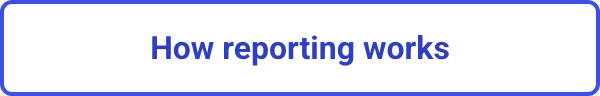
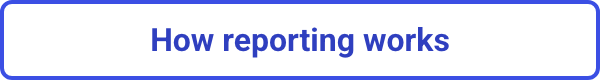
CYB4-2596: tighten Chip block, buttons and footer to fit the panel
Chip block: 15px text, tighter line height, padding and gaps. Buttons 44
and 40px tall, footer box 40px. English and Arabic now fit a 770px Gmail
panel without scrolling.

diff --git a/scripts/render-home-images.js b/scripts/render-home-images.js
@@ -61,35 +61,37 @@ p, h2, h3 { margin: 0; }
 </style></head><body><div id="root" dir="${RTL.has(lang) ? "rtl" : "ltr"}">${body}</div></body></html>`;
 }
 
-// The mock's Chip block: mock text sizes and spacing, with a smaller squirrel
-// (48x51, mock 76x80) and heading (20px, mock 26px), as asked in review.
+// The mock's Chip block, tightened so the whole home card fits a normal
+// Gmail panel without scrolling: smaller squirrel (48x51, mock 76x80) and
+// heading (20px, mock 26px), 15px text with tighter line height and gaps.
 function chipIntro(m) {
-  return `<div style="box-sizing:border-box;padding:16px;border-radius:10px;background:#F1F3FF;display:flex;flex-direction:column;gap:12px">
+  return `<div style="box-sizing:border-box;padding:12px 14px;border-radius:10px;background:#F1F3FF;display:flex;flex-direction:column;gap:8px">
   <div style="display:flex;align-items:center;gap:12px">
     <img src="${CHIP}" alt="" style="width:48px;height:51px;flex:none;object-fit:contain">
     <h2 style="font-size:20px;line-height:26px;font-weight:700">${esc(m.chipGreeting)}</h2>
   </div>
-  <p style="font-size:16px;line-height:24px">${esc(m.chipIntro)}</p>
-  <div style="display:flex;flex-direction:column;gap:4px">
-    <h3 style="font-size:16px;line-height:22px;font-weight:700">${esc(m.keyPartHeading)}</h3>
-    <p style="font-size:15px;line-height:22px">${esc(m.keyPartBody)}</p>
+  <p style="font-size:15px;line-height:21px">${esc(m.chipIntro)}</p>
+  <div style="display:flex;flex-direction:column;gap:2px">
+    <h3 style="font-size:15px;line-height:20px;font-weight:700">${esc(m.keyPartHeading)}</h3>
+    <p style="font-size:15px;line-height:20px">${esc(m.keyPartBody)}</p>
   </div>
-  <p style="font-size:15px;line-height:22px">${esc(m.spotOne)}</p>
+  <p style="font-size:15px;line-height:20px">${esc(m.spotOne)}</p>
 </div>`;
 }
 
+// Buttons: the mock's look, a little shorter (44 and 40px, mock 52 and 48).
 const reportButton = (m) =>
-  `<div style="box-sizing:border-box;width:100%;height:52px;border-radius:6px;background:#C9402F;color:#FFFFFF;font-size:17px;font-weight:700;display:flex;align-items:center;justify-content:center;padding:0 12px;text-align:center">${esc(m.reportButton)}</div>`;
+  `<div style="box-sizing:border-box;width:100%;height:44px;border-radius:6px;background:#C9402F;color:#FFFFFF;font-size:17px;font-weight:700;display:flex;align-items:center;justify-content:center;padding:0 12px;text-align:center">${esc(m.reportButton)}</div>`;
 const howButton = (m) =>
-  `<div style="box-sizing:border-box;width:100%;height:48px;border:2px solid #3B4FE4;border-radius:6px;background:#FFFFFF;color:#2F3FBF;font-size:16px;font-weight:700;display:flex;align-items:center;justify-content:center;padding:0 12px;text-align:center">${esc(m.howReportingWorks)}</div>`;
+  `<div style="box-sizing:border-box;width:100%;height:40px;border:2px solid #3B4FE4;border-radius:6px;background:#FFFFFF;color:#2F3FBF;font-size:16px;font-weight:700;display:flex;align-items:center;justify-content:center;padding:0 12px;text-align:center">${esc(m.howReportingWorks)}</div>`;
 
-// Footer row from the mock: 13px muted version, 180x44 language box.
+// Footer row from the mock: 13px muted version, 180x40 language box (mock 44).
 const footer = (lang, arrow) => () =>
-  `<div style="height:44px;display:flex;align-items:center;justify-content:space-between;gap:12px">
+  `<div style="height:40px;display:flex;align-items:center;justify-content:space-between;gap:12px">
   <span style="font-size:13px;color:#4A4F66">${esc(VERSION)}</span>
-  <div style="position:relative;box-sizing:border-box;width:180px;height:44px;border:1px solid #8A8FA3;border-radius:6px;background:#FFFFFF;display:flex;align-items:center;padding-inline:12px 34px;font-size:14px;color:#1B1F3B;white-space:nowrap;overflow:hidden">
+  <div style="position:relative;box-sizing:border-box;width:180px;height:40px;border:1px solid #8A8FA3;border-radius:6px;background:#FFFFFF;display:flex;align-items:center;padding-inline:12px 34px;font-size:14px;color:#1B1F3B;white-space:nowrap;overflow:hidden">
     ${esc(optionLabel(lang))}
-    ${arrow ? `<svg width="12" height="8" viewBox="0 0 12 8" style="position:absolute;inset-inline-end:12px;top:18px"><path d="M1 1.5 L6 6.5 L11 1.5" stroke="#1B1F3B" stroke-width="2" fill="none" stroke-linecap="round" stroke-linejoin="round"/></svg>` : ""}
+    ${arrow ? `<svg width="12" height="8" viewBox="0 0 12 8" style="position:absolute;inset-inline-end:12px;top:16px"><path d="M1 1.5 L6 6.5 L11 1.5" stroke="#1B1F3B" stroke-width="2" fill="none" stroke-linecap="round" stroke-linejoin="round"/></svg>` : ""}
   </div>
 </div>`;
 

diff --git a/README.md b/README.md
@@ -114,8 +114,10 @@ The home card (`buildHomeCard()` in `code.gs`) follows the "Chip Reporting
 Panel" mock attached to CYB4-2596, top to bottom:
 
 1. Chip block: squirrel image + "Hi, I'm Chip.", then the program copy
-   (`home.*` keys in `i18n.gs`). Rendered with the mock's text sizes (15-16px)
-   and spacing, and a smaller squirrel (48x51) and heading (20px).
+   (`home.*` keys in `i18n.gs`). Rendered from the mock with a smaller
+   squirrel (48x51) and heading (20px), 15px text and tighter spacing, and
+   slightly shorter buttons and footer, so the card fits a normal Gmail panel
+   (about 770px tall) without scrolling in English.
 2. "See an overview of CyberNut": a thumbnail with a play button. Clicking it
    plays the video as a GIF in the panel (see **Video** below).
 3. **Report Email** (only when an email is open) and **How reporting works**
